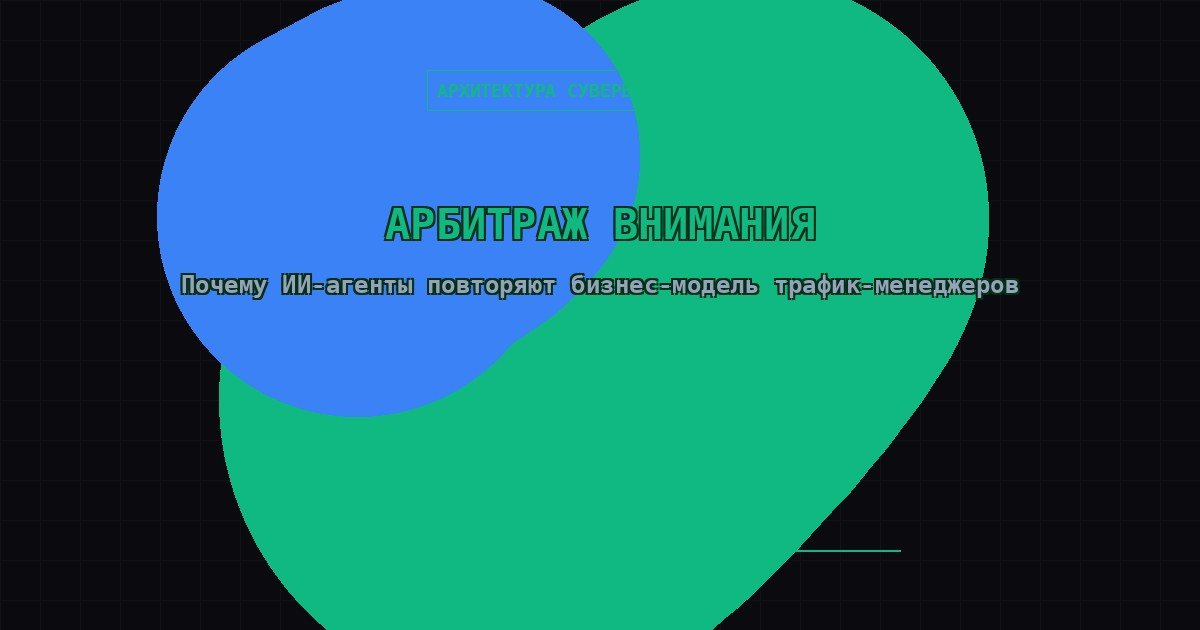
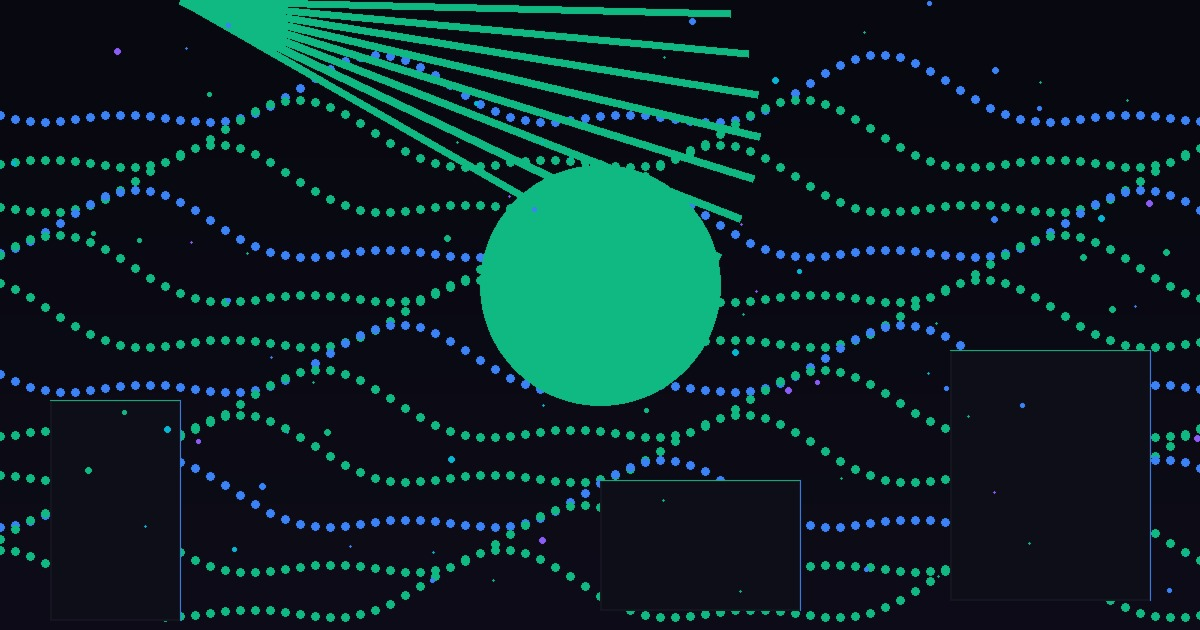
fix: tables CSS back to working, hyperlinked footnotes, new cover art
- Reverted tables to display:block + overflow-x:auto (matches nemo-blog)
- Footnotes now proper markdown hyperlinks
- New cover: abstract brutalist architecture with emerald/blue glow

diff --git a/src/app/globals.css b/src/app/globals.css
@@ -276,9 +276,7 @@ body {
   width: 100%;
 }
 
-/* Tables
-   Mobile: scrollable horizontally with fade-edge indicator.
-   Desktop: fixed layout, sticky header on long tables, hover accent. */
+/* Tables — mobile horizontal scroll, desktop natural */
 .prose-article table {
   width: 100%;
   border-collapse: separate;
@@ -288,74 +286,9 @@ body {
   border: 1px solid var(--color-border);
   border-radius: var(--radius-md);
   background: var(--color-surface);
-  display: table;
-  table-layout: auto;
-  min-width: 100%;
-}
-
-/* Mobile: wrap table in scrollable container via overflow on prose-article */
-@media (max-width: 767px) {
-  .prose-article {
-    overflow-x: auto;
-    -webkit-overflow-scrolling: touch;
-  }
-  .prose-article table {
-    min-width: 640px;
-    margin-left: 0;
-    margin-right: 0;
-  }
-}
-
-.prose-article table > thead,
-.prose-article table > tbody {
-  display: table-header-group;
-  display: table-row-group;
-  width: 100%;
-}
-.prose-article table > tr {
-  display: table-row;
-}
-.prose-article table > th,
-.prose-article table > td {
-  display: table-cell;
-  white-space: normal;
-  word-break: break-word;
-  min-width: 120px;
-  padding: 0.75rem 1rem;
-}
-
-/* Desktop: allow wider cells */
-@media (min-width: 768px) {
-  .prose-article table > th,
-  .prose-article table > td {
-    white-space: nowrap;
-    min-width: 140px;
-    max-width: 320px;
-  }
-}
-
-/* Fade indicator on right edge when scrollable */
-.prose-article table::after {
-  content: "";
-  position: absolute;
-  top: 0;
-  right: 0;
-  width: 32px;
-  height: 100%;
-  background: linear-gradient(to right, transparent, var(--color-surface) 80%);
-  pointer-events: none;
-  border-top-right-radius: var(--radius-md);
-  border-bottom-right-radius: var(--radius-md);
-  opacity: 0.8;
-}
-
-@media (min-width: 768px) {
-  .prose-article table {
-    display: table;
-    white-space: normal;
-    table-layout: auto;
-  }
-  .prose-article table::after { display: none; }
+  display: block;
+  overflow-x: auto;
+  -webkit-overflow-scrolling: touch;
 }
 
 .prose-article thead {
@@ -373,53 +306,27 @@ body {
   text-align: left;
   border-bottom: 1px solid var(--color-accent);
   white-space: nowrap;
-  position: sticky;
-  top: 0;
-  background: var(--color-surface-elevated);
-  z-index: 1;
-}
-
-.prose-article thead th:first-child {
-  border-top-left-radius: calc(var(--radius-md) - 1px);
-}
-
-.prose-article thead th:last-child {
-  border-top-right-radius: calc(var(--radius-md) - 1px);
 }
 
 .prose-article tbody tr {
-  transition: background 0.15s ease;
-  border-bottom: 1px solid var(--color-border-subtle);
-}
-
-.prose-article tbody tr:last-child {
-  border-bottom: none;
-}
-
-.prose-article tbody tr:hover {
-  background: var(--color-accent-glow);
+  border-bottom: 1px solid var(--color-border);
 }
 
 .prose-article tbody td {
   padding: 0.875rem 1rem;
-  color: var(--color-foreground);
-  vertical-align: top;
+  border-bottom: 1px solid var(--color-border);
+  font-size: 0.9375rem;
   line-height: 1.6;
-  white-space: normal;
+  vertical-align: top;
 }
 
 .prose-article tbody td code {
   font-size: 0.8125rem;
   padding: 0.125rem 0.375rem;
+  border-radius: var(--radius-sm);
+  background: var(--color-surface-elevated);
+  border: 1px solid var(--color-border);
 }
-
-/* Compact variant for long reference tables — triggered when class="compact" is set via raw HTML */
-.prose-article table.compact tbody td,
-.prose-article table.compact thead th {
-  padding: 0.5rem 0.75rem;
-  font-size: 0.875rem;
-}
-
 /* === FOCUS === */
 :focus-visible {
   outline: 2px solid var(--color-accent);

diff --git a/content/articles/ru/arbitrazh-vnimaniya-pochemu-ii-agenty-povtoryayut-biznes-model-trafik-menedzherov.md b/content/articles/ru/arbitrazh-vnimaniya-pochemu-ii-agenty-povtoryayut-biznes-model-trafik-menedzherov.md
@@ -136,5 +136,6 @@ readingTime: "9"
 
 Выбор — за нами. Пока мы не проснулись.
 
-[^1]: Statista, "Digital Advertising Worldwide — Statistics & Facts", 2025. https://www.statista.com/topics/1002/online-advertising/
-[^2]: MIT Media Lab, "The spread of low-credibility content by social bots", 2026. https://www.media.mit.edu/publications/
+[^1]: [Statista, "Digital Advertising Worldwide — Statistics & Facts", 2025](https://www.statista.com/topics/1002/online-advertising/)
+
+[^2]: [MIT Media Lab, "The spread of low-credibility content by social bots", 2026](https://www.media.mit.edu/publications/)